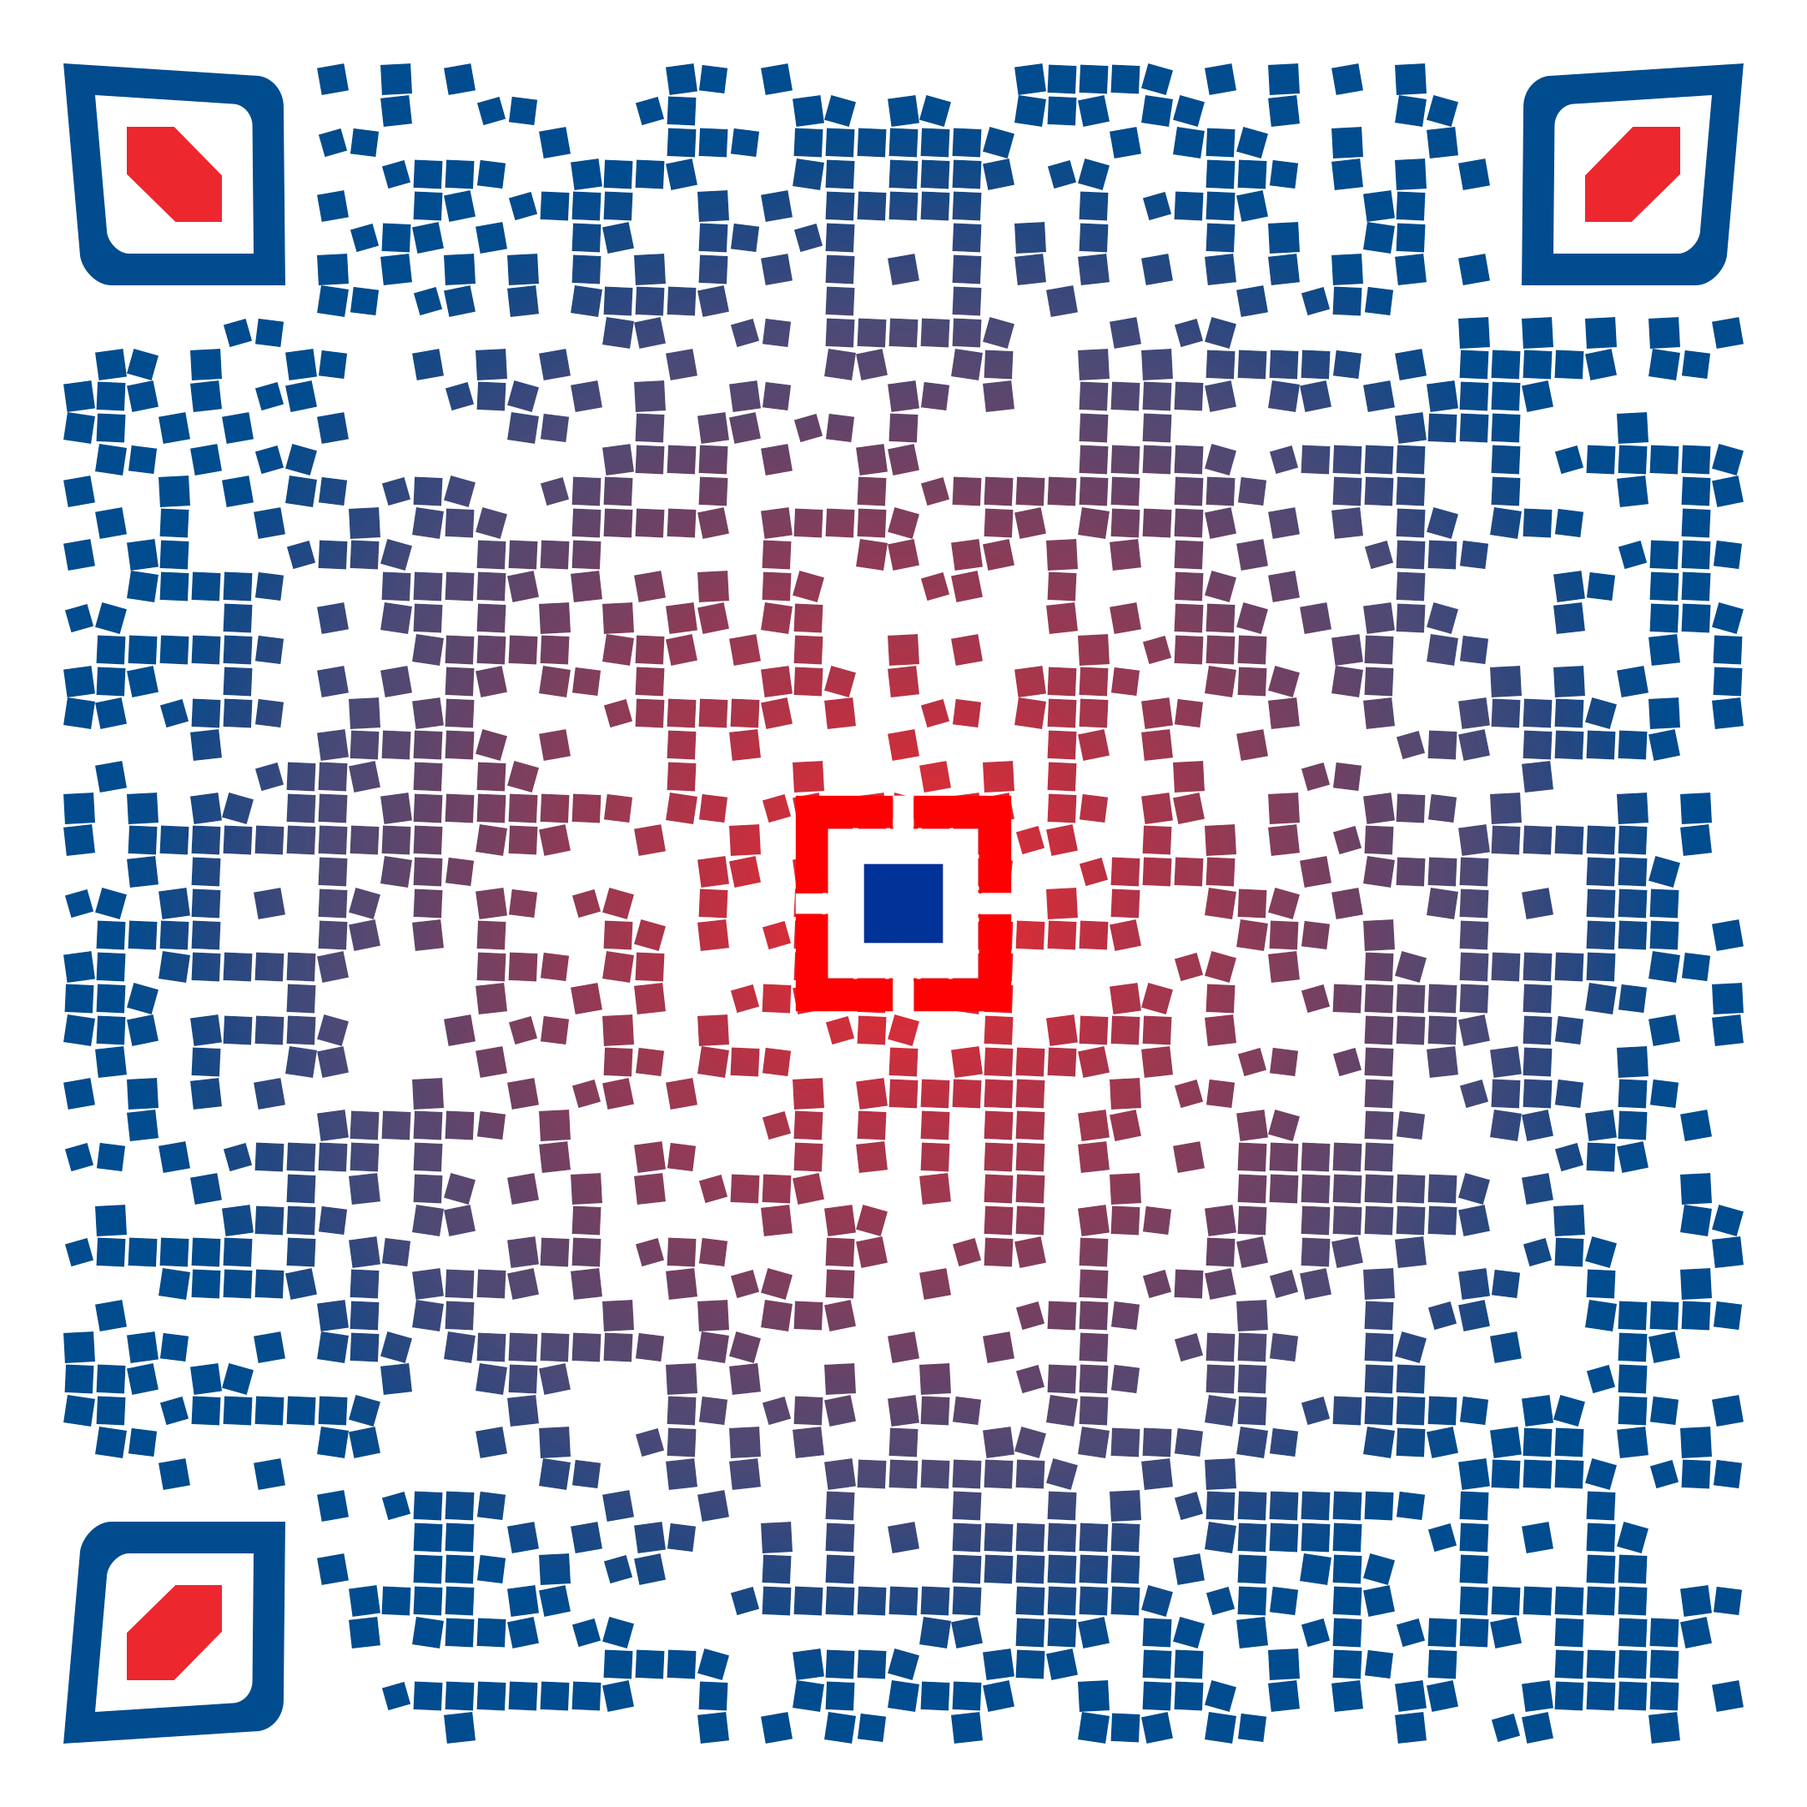
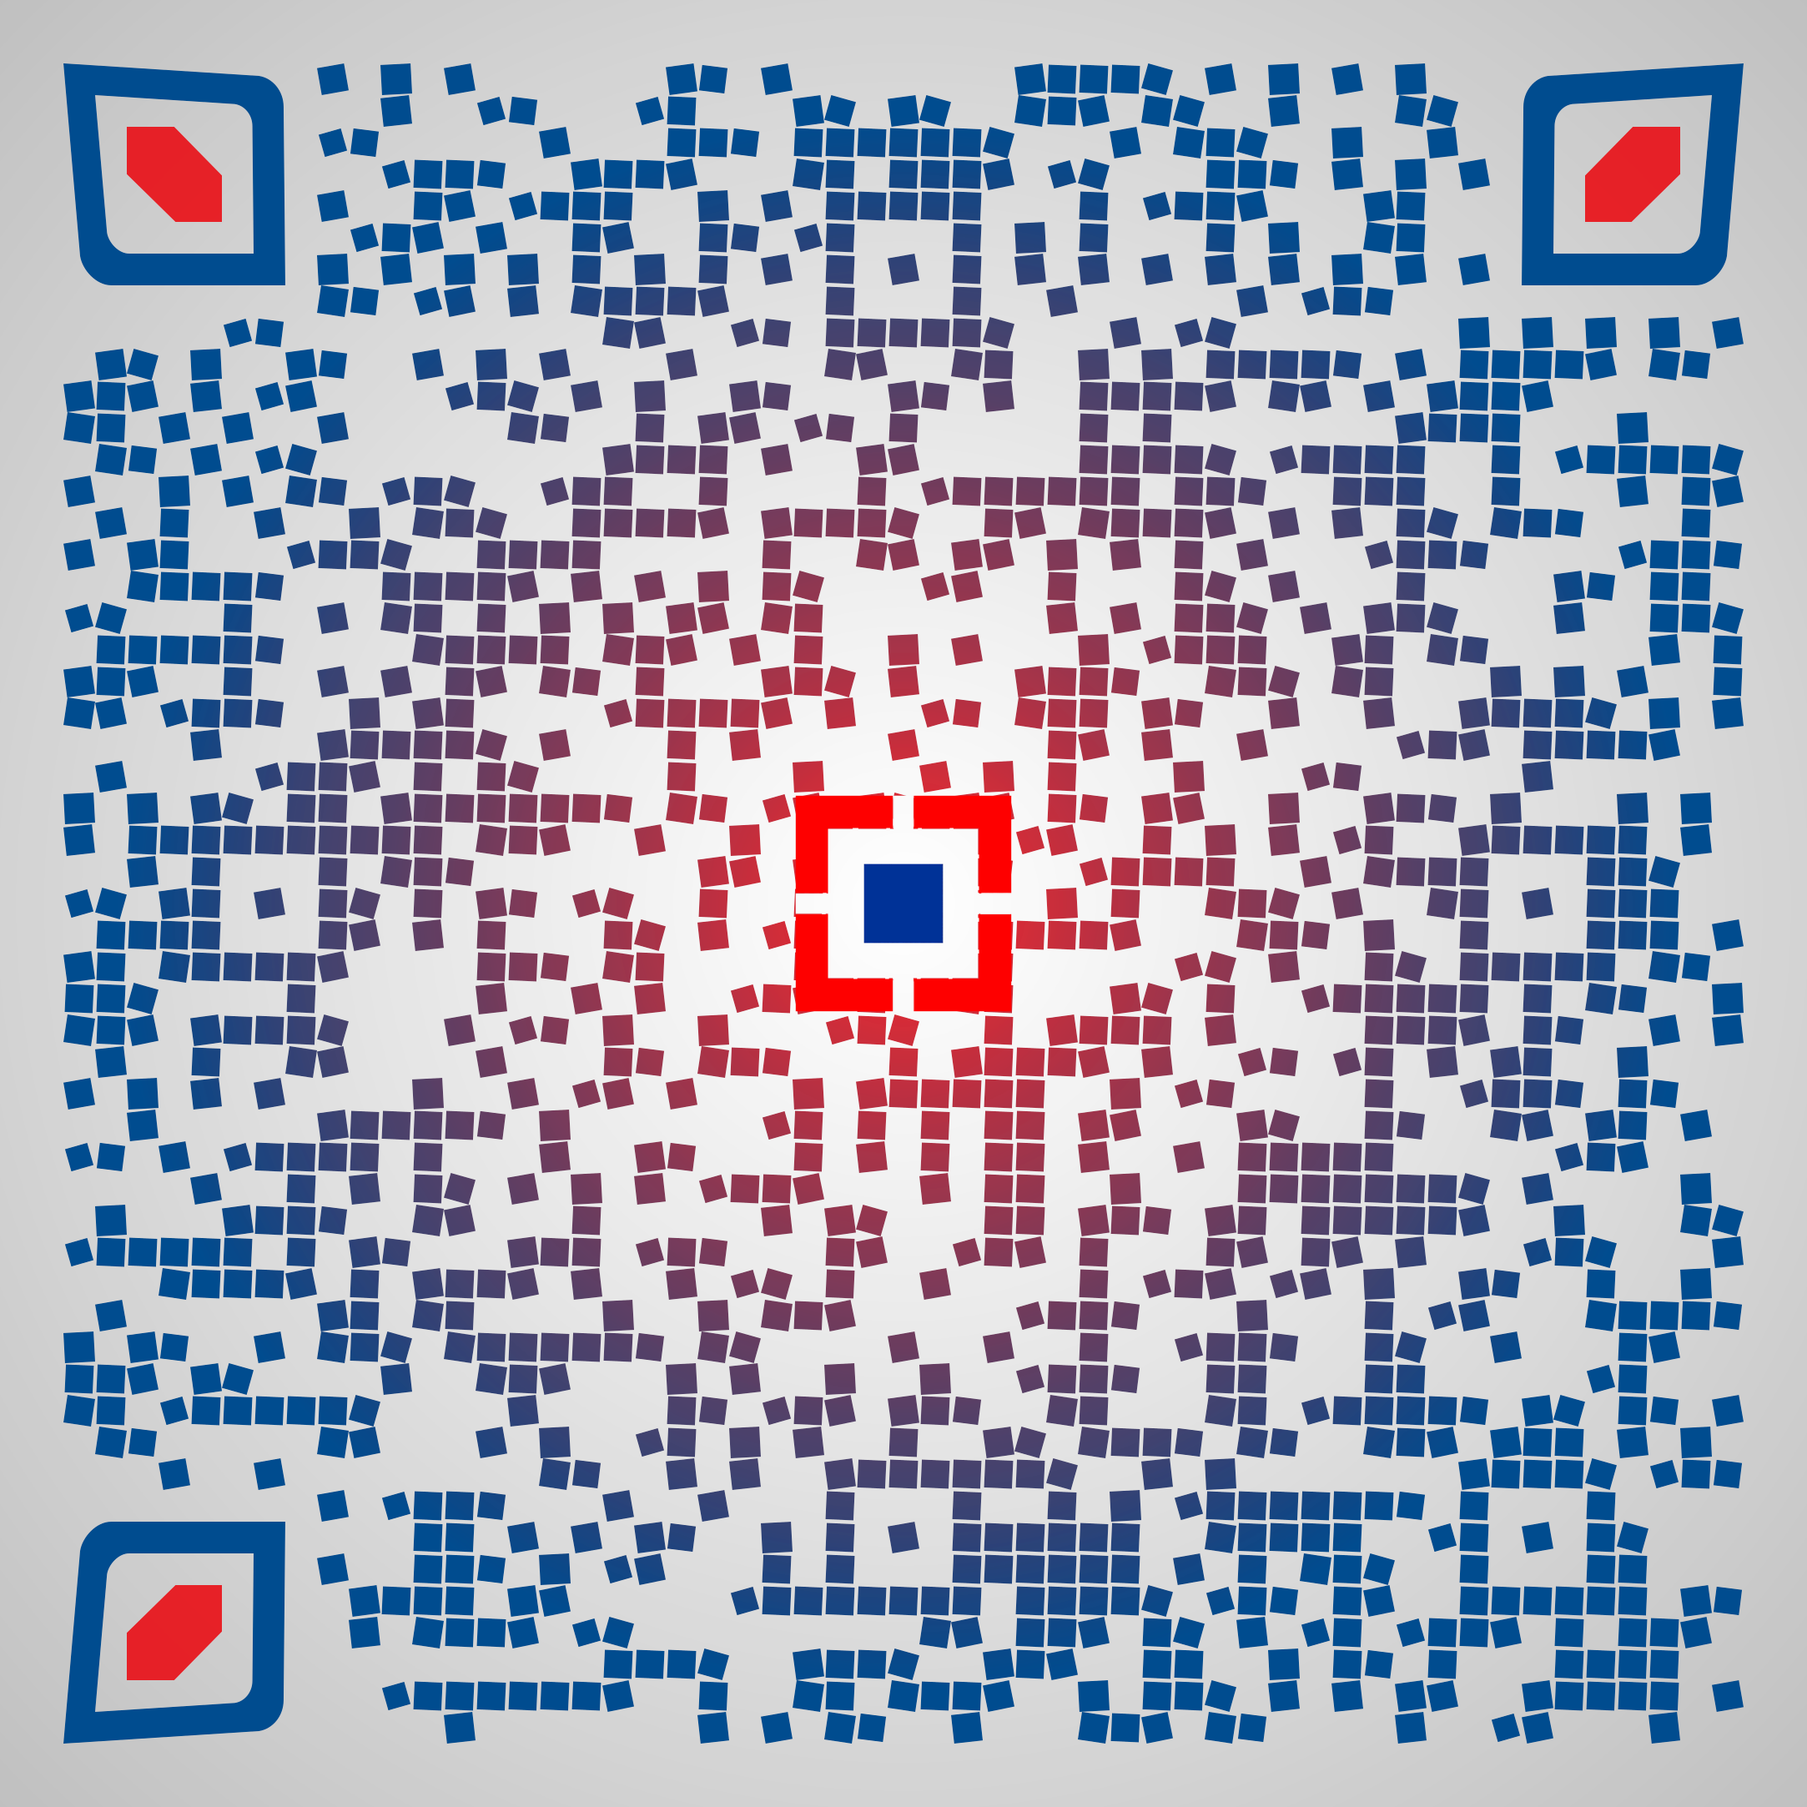
Donate page fix

diff --git a/donate.html b/donate.html
@@ -105,25 +105,24 @@
                     <p>
                         <a href="https://www.linkedin.com/posts/jalte-diye-foundation_donation-drive-for-miyawaki-forestation-project-activity-7440238127006478337-1Gk8" class="learn-more-link">Learn more about the forestation project on LinkedIn</a>
                     </p>
-                    <form id="upiDonationForm" class="upi-donation-form">
-                        <label for="donationAmount">Donation amount (INR)</label>
-                        <div class="upi-donation-input">
-                            <input id="donationAmount" type="text" inputmode="decimal" pattern="[0-9]+([.][0-9]{1,2})?" aria-describedby="donationAmountHelp" required>
-                            <button type="submit" class="btn-donate" title="Opens a UPI app on your phone. On desktop, scan the QR code if no app opens." aria-describedby="upiPaymentHelp" disabled>Pay with UPI</button>
-                        </div>
-                        <p id="donationAmountHelp">Enter an amount greater than zero, with up to two decimal places.</p>
-                        <p id="upiPaymentHelp">This button opens a UPI app on your phone. On desktop, scan the QR code below if no app opens. Check the recipient and amount in your UPI app before paying.</p>
-                        <noscript><p>JavaScript is required to open a UPI app. Please use the QR code below.</p></noscript>
-                    </form>
                     <div class="upi-details">
                         <div class="upi-info">
-                            <p><strong>UPI ID:</strong>20250302</p>
+                            <p><strong>UPI ID:</strong> <span id="donationUpiId">20250302</span></p>
                             <p>Dr. NarSingh Lal Sharma
                             <br>Director & Treasurer, For Jalte Diye Foundation</p>
                         </div>
+                        <p><strong>Please note:</strong> Your UPI app may show Dr. NarSingh Lal Sharma, our Director, as the recipient. The account belongs to Jalte Diye Foundation.</p>
+                        <button type="button" class="btn-donate upi-copy-button" id="copyUpiId" disabled>Copy UPI ID</button>
+                        <p id="copyUpiStatus" role="status" hidden></p>
+                        <p>Paste the UPI ID into your UPI app and enter the amount there. Check the recipient before paying.</p>
+                        <noscript><p>JavaScript is required to copy the UPI ID with the button. You can select and copy it manually.</p></noscript>
                         <p>Scan the QR code below to complete your donation securely through your UPI app.</p>
-                        <div class="qr-code-container"">
-                            <img width="60%" src="images/QR_for_donation.png" alt="UPI QR Code for Donation">
+                        <div class="qr-code-container">
+                            <div class="donation-qr-card">
+                                <span class="donation-qr-label">Scan to donate</span>
+                                <img src="images/QR_for_donation.png" alt="UPI QR Code for Donation">
+                                <span class="donation-qr-caption">Thank you for your support</span>
+                            </div>
                         </div>
                     </div>
                 </div>

diff --git a/css/donate.css b/css/donate.css
@@ -228,41 +228,73 @@
     gap: 12px;
 }
 
-#donate .upi-donation-form {
-    margin: 20px 0;
-}
-
-.upi-donation-form label {
-    display: block;
-    font-weight: 600;
-    margin-bottom: 6px;
-}
-
-.upi-donation-input {
-    display: grid;
-    grid-template-columns: repeat(2, minmax(0, 1fr));
-    gap: 10px;
-    align-items: center;
-    max-width: 300px;
-    margin-bottom: 8px;
-}
-
-.upi-donation-input input,
-.upi-donation-input button {
+#donate .qr-code-container {
     width: 100%;
-    height: 40px;
-    font: inherit;
+    margin: 8px 0 0;
+}
+
+.donation-qr-card {
+    width: 100%;
+    max-width: 320px;
+    padding: 16px;
+    border: 1px solid var(--border-soft);
+    border-radius: var(--radius-lg);
+    background: radial-gradient(circle at center, #fff 0%, #dedede 100%);
+    box-shadow: var(--shadow-sm);
+    text-align: center;
+}
+
+.donation-qr-card img {
+    display: block;
+    width: 100%;
+    height: auto;
+    padding: 4px;
+    border-radius: 10px;
+    background: #d3d3d3;
+}
+
+html[data-theme="dark"] .donation-qr-card {
+    background: radial-gradient(circle at center, #fff 50%, #555 55%, #000000 100%);
+    border-color: #444;
+    filter: invert(1) hue-rotate(180deg);
+}
+
+html[data-theme="dark"] .donation-qr-card img {
+    filter: none;
+    mask-image: linear-gradient(to right, transparent, #000 3.5%, #000 96.5%, transparent),
+        linear-gradient(to bottom, transparent, #000 3.5%, #000 96.5%, transparent);
+    mask-composite: intersect;
+}
+
+html[data-theme="dark"] .donation-qr-label,
+html[data-theme="dark"] .donation-qr-caption {
+    color: #fff;
+}
+
+.donation-qr-label,
+.donation-qr-caption {
+    display: block;
+    color: var(--text-main);
+    font-weight: 600;
+}
+
+.donation-qr-label {
+    margin-bottom: 10px;
+    font-size: 15px;
+    text-transform: uppercase;
+    letter-spacing: 0.06em;
+}
+
+.donation-qr-caption {
+    margin-top: 10px;
     font-size: 14px;
 }
 
-.upi-donation-input input {
-    min-width: 0;
-    padding: 8px;
-    border: 1px solid #888;
-    border-radius: var(--radius-md);
-}
-
-.upi-donation-input button {
+.upi-copy-button {
+    width: 145px;
+    height: 40px;
+    font: inherit;
+    font-size: 14px;
     border: 0;
     cursor: pointer;
     margin: 0;
@@ -270,12 +302,12 @@
     transition: background 0.2s ease, color 0.2s ease, font-size 0.2s ease;
 }
 
-.upi-donation-input button:hover {
+.upi-copy-button:hover {
     font-size: 16px;
     transform: none;
 }
 
-.upi-donation-input button:disabled {
+.upi-copy-button:disabled {
     cursor: not-allowed;
     opacity: 0.5;
 }

diff --git a/volunteer.html b/volunteer.html
@@ -55,7 +55,7 @@
             <div class="donate-hero">
                 <h3 align="left">Let's work together</h3>
                 <div class="donate-intro" align="left">
-                    <p class="intro-text"><strong>Fill this form to apply to the program in which you are interested.</strong></p>
+                    <p class="intro-text"><strong>Choose how you would like to apply.</strong></p>
                     <p>We welcome students, professionals, and community members who want to support education, awareness, and social impact programs.</p>
                 </div>
             </div>
@@ -63,8 +63,11 @@
 
         <section class="section section--soft">
             <div class="volunteer-wrap">
-                <div class="volunteer-form-card">
+                <a class="volunteer-option volunteer-google-option" href="https://forms.gle/cfjkxXnJpQQz5X328" target="_blank" rel="noopener noreferrer" aria-label="Apply using Google Form (opens in a new tab)">Apply using Google Form</a>
+                <details class="volunteer-form-card">
+                    <summary class="volunteer-option">Apply via email client (e.g., Thunderbird or Outlook)</summary>
                     <form id="volunteerForm" novalidate>
+                        <p class="form-note volunteer-form-intro">Complete this form to open your email app with your application. Google Form applications must be filled out separately.</p>
                         <div class="volunteer-grid">
                             <div class="volunteer-field">
                                 <label for="fullName">Full Name</label>
@@ -139,13 +142,13 @@
                         </div>
 
                         <div class="volunteer-actions">
-                            <button class="btn-submit" type="submit">Submit Application</button>
+                            <button class="btn-submit" type="submit">Apply via email client</button>
                         </div>
 
-                        <p class="form-note">This form opens your email app with prefilled details so your application can be sent to us quickly.</p>
+                        <p class="form-note">This form opens your email app with prefilled details. Please send the email to complete your application.</p>
                         <p id="formStatus" class="form-status" role="status" aria-live="polite"></p>
                     </form>
-                </div>
+                </details>
             </div>
         </section>
 

diff --git a/js/donate.js b/js/donate.js
@@ -1,29 +1,22 @@
-const upiDonationForm = document.getElementById('upiDonationForm');
-const donationAmount = document.getElementById('donationAmount');
+const copyUpiId = document.getElementById('copyUpiId');
+const donationUpiId = document.getElementById('donationUpiId');
+const copyUpiStatus = document.getElementById('copyUpiStatus');
 
-upiDonationForm.querySelector('button[type="submit"]').disabled = false;
-donationAmount.addEventListener('input', function () {
-    donationAmount.setCustomValidity('');
-});
-upiDonationForm.addEventListener('submit', function (event) {
-    event.preventDefault();
-    const amount = donationAmount.value;
-    if (!/[1-9]/.test(amount)) {
-        donationAmount.setCustomValidity('Enter an amount greater than zero.');
-        donationAmount.reportValidity();
+copyUpiId.disabled = false;
+copyUpiId.addEventListener('click', async function () {
+    copyUpiStatus.hidden = false;
+    if (!navigator.clipboard || !navigator.clipboard.writeText) {
+        copyUpiStatus.textContent = 'Unable to copy automatically. Please select and copy the UPI ID above.';
         return;
     }
 
-    const parts = amount.split('.');
-    const whole = parts[0].replace(/^0+(?=\d)/, '');
-    const decimal = (parts[1] || '').padEnd(2, '0');
-    const params = new URLSearchParams({
-        pa: '9602431619@hdfc',
-        pn: 'Jalte Diye Foundation',
-        am: whole + '.' + decimal,
-        cu: 'INR'
-    });
-    window.location.href = 'upi://pay?' + params.toString();
+    try {
+        await navigator.clipboard.writeText(donationUpiId.textContent.trim());
+        copyUpiStatus.textContent = 'UPI ID copied. Paste it into your UPI app.';
+    } catch (error) {
+        console.error('Unable to copy UPI ID:', error);
+        copyUpiStatus.textContent = 'Unable to copy automatically. Please select and copy the UPI ID above.';
+    }
 });
 
 initTestimonialSlider({

diff --git a/css/volunteer.css b/css/volunteer.css
@@ -4,12 +4,71 @@
     padding: 8px 20px 40px;
 }
 
+#volunteer .donate-hero {
+    max-width: var(--content-width);
+    padding: 0 45px;
+}
+
+.volunteer-google-option,
 .volunteer-form-card {
     background: var(--surface-base);
     border: 1px solid var(--border-soft);
     border-radius: var(--radius-lg);
-    padding: 24px;
     box-shadow: var(--shadow-sm);
+}
+
+.volunteer-google-option {
+    margin-bottom: 12px;
+    text-decoration: none;
+}
+
+.volunteer-option {
+    display: flex;
+    align-items: center;
+    justify-content: space-between;
+    gap: 12px;
+    padding: 18px 24px;
+    color: var(--text-main);
+    font-weight: 700;
+    cursor: pointer;
+}
+
+summary.volunteer-option {
+    list-style: none;
+}
+
+summary.volunteer-option::-webkit-details-marker {
+    display: none;
+}
+
+.volunteer-google-option::after {
+    content: "\2197";
+}
+
+summary.volunteer-option::after {
+    content: "+";
+}
+
+details[open] > summary.volunteer-option::after {
+    content: "\2212";
+}
+
+.volunteer-option:hover {
+    color: var(--accent-green);
+}
+
+.volunteer-option:focus-visible {
+    outline: 2px solid var(--focus-ring);
+    outline-offset: 2px;
+}
+
+.volunteer-form-card form {
+    border-top: 1px solid var(--border-soft);
+    padding: 24px;
+}
+
+.volunteer-form-intro {
+    margin: 0 0 16px;
 }
 
 .volunteer-grid {
@@ -71,6 +130,7 @@
 }
 
 .btn-submit {
+    display: inline-block;
     border: none;
     border-radius: var(--radius-md);
     background: var(--accent-green);
@@ -78,6 +138,7 @@
     font-weight: 700;
     padding: 10px 16px;
     cursor: pointer;
+    text-decoration: none;
 }
 
 .btn-submit:hover {

diff --git a/js/share.js b/js/share.js
@@ -24,10 +24,6 @@ new QRCode(qrContainer, {
     correctLevel: QRCode.CorrectLevel.M
 });
 
-const shareText = `I just supported Jalte Diye Foundation as ${donorName}. See my support card: ${sharePageURL}`;
-const encodedShareText = encodeURIComponent(shareText);
-const encodedShareUrl = encodeURIComponent(sharePageURL);
-
 async function generateCardBlob() {
     const card = document.getElementById("share-card");
     const canvas = await html2canvas(card, {
@@ -87,7 +83,6 @@ async function shareCardImage() {
 }
 
 const primaryRow = document.getElementById("share-row-primary");
-const socialRow = document.getElementById("share-row-social");
 
 const downloadBtn = document.createElement("button");
 downloadBtn.className = "download-btn";
@@ -119,23 +114,6 @@ copyBtn.onclick = () => {
     }, 2000);
 };
 primaryRow.appendChild(copyBtn);
-
-const socialButtons = [
-    { label: "LinkedIn", href: `https://www.linkedin.com/sharing/share-offsite/?url=${encodedShareUrl}` },
-    { label: "Instagram", href: "https://www.instagram.com/" },
-    { label: "Facebook", href: `https://www.facebook.com/sharer/sharer.php?u=${encodedShareUrl}&quote=${encodedShareText}` },
-    { label: "X / Twitter", href: `https://twitter.com/intent/tweet?text=${encodedShareText}` }
-];
-
-socialButtons.forEach((btn) => {
-    const a = document.createElement("a");
-    a.href = btn.href;
-    a.target = "_blank";
-    a.rel = "noopener noreferrer";
-    a.className = "share-btn";
-    a.textContent = btn.label;
-    socialRow.appendChild(a);
-});
 
 function downloadCard() {
     const button = document.querySelector(".download-btn");

diff --git a/js/volunteer.js b/js/volunteer.js
@@ -49,7 +49,7 @@ if (volunteerForm && formStatus) {
         window.location.href =
             "mailto:contact@jaltediyefoundation.org?subject=" + subject + "&body=" + body;
         formStatus.textContent =
-            "Thank you for applying! Your application is complete. Your email app should open now. If it does not, please email contact@jaltediyefoundation.org manually.";
+            "Your email app should open with your application. Please send the email to complete your application. If it does not open, please email contact@jaltediyefoundation.org manually.";
         formStatus.style.color = '#207c2f';
         formStatus.style.fontWeight = 'bold';
     });

diff --git a/share.html b/share.html
@@ -102,7 +102,6 @@
                 <h4 class="section-minor-title section-minor-title--center">Share with Friends</h4>
                 <div class="share-actions" id="social-buttons">
                     <div class="buttons-container" id="share-row-primary"></div>
-                    <div class="buttons-container" id="share-row-social"></div>
                 </div>
             </div>
         </section>
